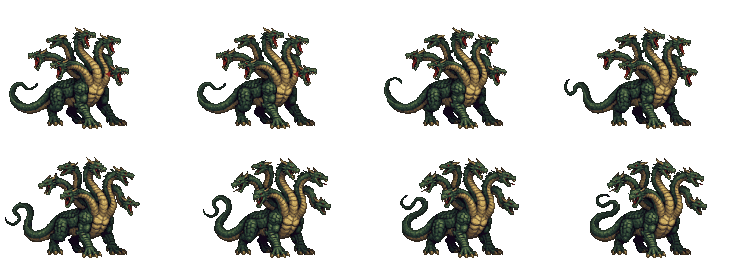
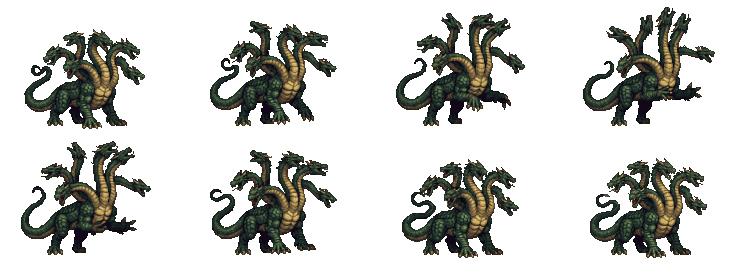
Combat : le coup reçu du Dragon et de l'Hydre, fini
Ils se cabrent en arrière (modèle v3, 8 images avec retour) : le Dragon
rejette la tête et ouvre les ailes (essai 1), l'Hydre lève les pattes de
devant (essai 6). Choisis par l'utilisateur ; méthode dans METHODE.md.

diff --git a/HISTORIQUE.md b/HISTORIQUE.md
@@ -2859,6 +2859,13 @@ créature rare), le nombre par carte et la difficulté selon la zone ; les créa
   Une étincelle cyan effacée sur le coup reçu du Cavalier. 25 essais, 0,42 $ dont 0,17 $ perdus : les premiers essais
   de l'Archer et du Griffon partaient des anciennes grandes images, restées dans le dossier `art-candidats` du
   worktree (non suivi par git).
+  ✅ **Le coup reçu du Dragon et de l'Hydre, fini** (2026-11-20, branche `coups-dragon-hydre`) : ceux du 2026-11-17
+  bougeaient à peine (« encore à finir », selon l'utilisateur, qui voulait un Dragon qui recule). Le modèle v3, 8 images
+  avec retour, une consigne qui fait **se cabrer en arrière** : « rears back to the left: it throws its head and long
+  neck back to the left, jaws open, rises onto its hind legs with its front claws lifted, the wings snapping open… »
+  (Dragon, essai 1) ; « all five heads whip back to the left at once… the body rocks back onto its hind legs… » (Hydre,
+  essai 6, elle lève les pattes de devant). Le second modèle, cette fois, tournait le Dragon vers nous et lançait les
+  têtes de l'Hydre en avant (on dirait une attaque). 12 essais, 0,17 $, choisis au premier tour.
   ✅ **Les héros au combat** (2026-11-19, branche `heros-combat`) : le combat montrait l'image de la carte du héros
   (48 px, ×2). Désormais `MapRenderer.HeroBattleImage` prend `heroes/battle/<nom>.png` s'il existe (sinon l'image de la
   carte), aux couleurs du joueur comme sur la carte (`PaintPlayerColor`, commun aux deux) ; celui qui se défend, à

diff --git a/tools/art/METHODE.md b/tools/art/METHODE.md
@@ -414,7 +414,12 @@ les clés et le dossier `art-candidats/` sont décrits dans `CLAUDE.md` ; l'hist
   retour à la pose de départ, 8 images)**, sans image clé : « takes a heavy blow to the chest and recoils: the head and
   neck jerk back, the wings flinch, the body sways back on its legs, then it recovers; no effects » (le Dragon se tasse,
   le Démon se plie un peu) ; il dessine un effet sur les 1 ou 2 premières images : les remplacer par une image suivante.
-  À essayer en premier pour une grande créature.
+  **Mieux encore (2026-11-20, choisi par l'utilisateur) : le modèle v3 avec un geste qui se cabre en arrière**, 8
+  images avec retour : « rears back to the left: it throws its head and long neck back to the left, jaws open, rises
+  onto its hind legs with its front claws lifted, the wings snapping open, then recovers back to exactly its starting
+  pose… » ; le corps entier recule, la tête en arrière. Le second modèle, avec la même consigne, tourne le Dragon vers
+  nous et lance les têtes de l'Hydre en avant. Faire 3 ou 4 graines : environ une sur trois dessine un éclat (le
+  retirer avec `retoucher … --eclats=partout`, et `--copier` pour une image trop tachée).
   Le jeu ajoute un recul de 9 pixels de l'écran (`Recoil`) : la page de revue le montre aussi. Retirer des effets à la
   main : par rectangles, n'effacer que les pixels clairs (ou jaune vif sur des cheveux blonds) ; sur le corps, leur donner
   la couleur du corps voisine plutôt que de faire un trou ; ou reprendre une image voisine.

diff --git a/PLAN.md b/PLAN.md
@@ -187,7 +187,8 @@ nuages et des rochers dans les paysages ouverts, les flaques loin des obstacles 
 `morts-variees` : en arrière, sur le côté, une mort propre au Démon, à la Liche, au Roi de cristal, au Golem…).
 **Plus tard, si l'occasion se présente** : les jambes du Moloch qui se défont aussi.
 ✅ Un **coup reçu** par créature (2026-11-17), revu et choisi avec l'utilisateur (le Dragon, l'Hydre et le Démon par le
-second modèle de PixelLab ; « encore à finir » pour le Dragon et l'Hydre, selon lui).
+second modèle de PixelLab) ; ceux du **Dragon** et de l'**Hydre** finis (2026-11-20, branche `coups-dragon-hydre` : ils
+se cabrent en arrière).
 ✅ La mort et le coup reçu de l'Archer, du Griffon et du Cavalier (2026-11-19, branche `morts-chateau`) ; ceux du
 **Loup**, du **Moine** et du **Troll** refaits d'après leurs nouvelles images (2026-11-19).
 
